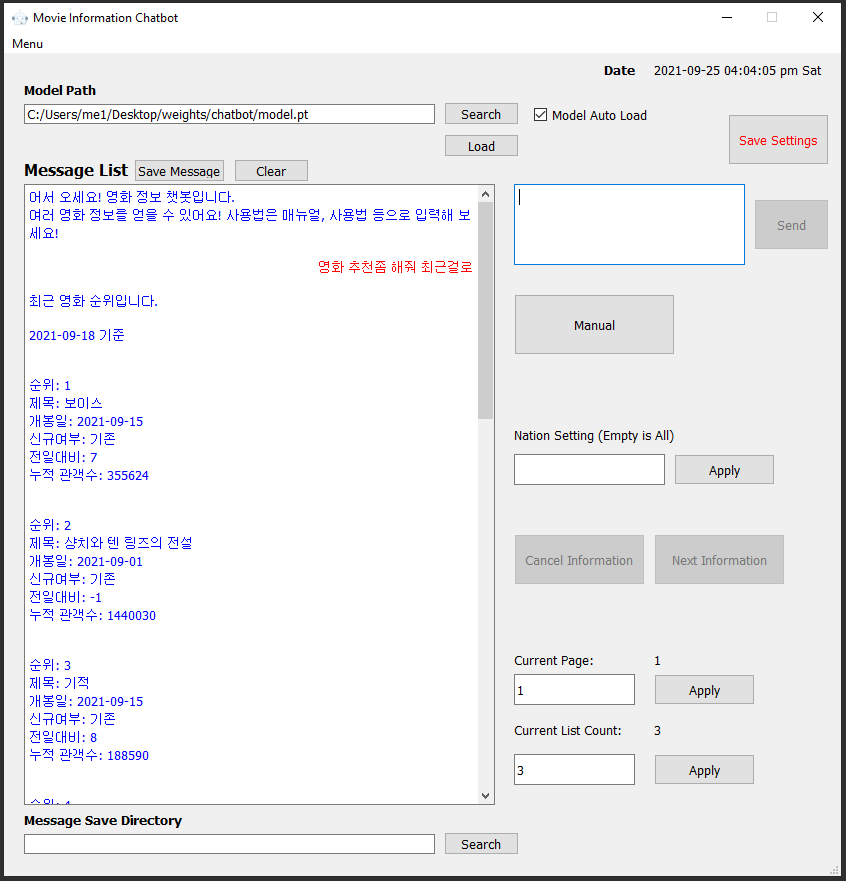
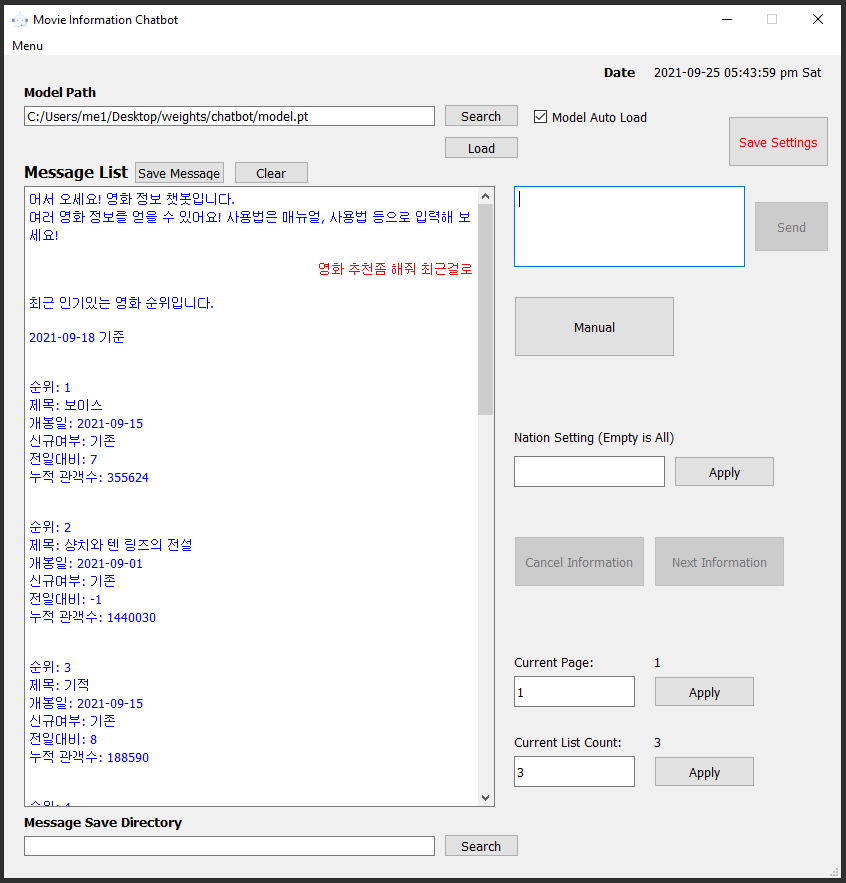
fin

diff --git a/reply.py b/reply.py
@@ -6,24 +6,24 @@ SCRIPT_LIST = {
 "hello" : ("Hello! 안녕하세요! 얻고 싶은 정보를 입력해 주세요. 사용법은 매뉴얼, 사용법 등으로 입력해 주세요.", 
 "반갑습니다. 원하시는 정보를 입력해 주세요. 사용법은 매뉴얼, 사용법 등으로 입력해 보세요."),
 
-"manual" : ("영화 제목, 배우, 감독, 순위, 연도, 국가를 이용해서 영화 정보를 얻을 수 있습니다.\nex) 배우 찾아줘, 영화 추천좀 해줘", 
-"영화 제목으로 찾을래, 인기 있는 영화좀 등을 입력해 보세요.\n영화 제목, 배우, 감독, 순위, 연도, 국가를 이용해서 영화 정보를 얻을 수 있습니다."),
+"manual" : ("영화 제목, 배우, 감독, 순위, 연도, 국가를 이용해서 영화 정보를 얻을 수 있습니다.\nex) 배우 찾아줘, 영화 추천 좀 해줘", 
+"영화 제목으로 찾을래, 인기 있는 영화 좀 등을 입력해 보세요.\n영화 제목, 배우, 감독, 순위, 연도, 국가를 이용해서 영화 정보를 얻을 수 있습니다."),
 
 "title" : ("찾고자 하는 영화 제목을 입력해 주세요.\n검색어가 포함된 제목의 영화를 볼 수 있습니다.\nex) 컨저링\n연도와 함께 검색도 가능합니다.\nex) 컨저링, 2013-2021 또는 컨저링, 2013", 
 "정보를 얻을 영화의 제목을 입력해 주세요. 영화 제목에 검색어가 포함된 영화를 볼 수 있습니다.\nex) 인질\n연도 입력도 가능합니다.\nex) 인질, 2020-2021 또는 인질, 2020"),
 
-"actor" : ("찾고자 하는 영화 배우를 입력해 주세요. 배우가 출연한 영화 제목을 얻을 수 있습니다.\nex) 하정우", 
-"배우가 출연한 영화 제목을 얻을 수 있어요! 영화 배우를 입력해 주세요.\nex) 하정우"),
+"actor" : ("찾고자 하는 영화배우를 입력해 주세요. 배우가 출연한 영화 제목을 얻을 수 있습니다.\nex) 하정우", 
+"배우가 출연한 영화 제목을 얻을 수 있어요! 영화배우를 입력해 주세요.\nex) 하정우"),
 
-"director" : ("찾고자 하는 영화 감독을 입력해 주세요. 영화 정보를 얻을 수 있습니다.\nex) 스티븐 스필버그\n연도 입력도 가능합니다.\nex) 스티븐 스필버그, 2000-2005 또는 스티븐 스필버그, 2020", 
-"감독이 맡은 영화 정보를 얻을 수 있습니다. 찾고자 하는 영화 감독을 입력해주세요.\nex) 봉준호\n연도와 함께 검색도 가능합니다.\nex) 봉준호, 2020-2021 또는 봉준호, 2020"),
+"director" : ("찾고자 하는 영화감독을 입력해 주세요. 영화 정보를 얻을 수 있습니다.\nex) 스티븐 스필버그\n연도 입력도 가능합니다.\nex) 스티븐 스필버그, 2000-2005 또는 스티븐 스필버그, 2020", 
+"감독이 맡은 영화 정보를 얻을 수 있습니다. 찾고자 하는 영화감독을 입력해주세요.\nex) 봉준호\n연도와 함께 검색도 가능합니다.\nex) 봉준호, 2020-2021 또는 봉준호, 2020"),
 
-"rank" : (f"최근 영화 순위입니다.", "최근 인기있는 영화 순위입니다."),
+"rank" : (f"최근 영화 순위입니다.", "최근 인기 있는 영화 순위입니다."),
 
 "year" : ("연도별 개봉한 영화 정보를 얻을 수 있어요. 연도를 입력해 주세요.\nex) 2021 or 2020-2021", 
 "특정 연도에 개봉한 영화 정보를 얻을 수 있어요. 연도를 입력해 주세요.\nex) 2021 or 2020-2021"),
 
-"country" : ("국가별 영화 정보를 조회할 수 있습니다. 국가를 입력해 주세요.\nex) 한국\n연도 입력도 가능합니다.\nex) 한국, 2004-2005 또는 한국,2020", 
+"country" : ("국가별 영화 정보를 조회할 수 있습니다. 국가를 입력해 주세요.\nex) 한국\n연도 입력도 가능합니다.\nex) 한국, 2004-2005 또는 한국, 2020", 
 "국가를 입력해 주세요. 해당 국가의 영화 정보를 얻을 수 있습니다.\nex) 미국, 2010-2013 또는 미국, 2018"),
 
 "welcome" : ("어서 오세요. 영화 정보 챗봇입니다.\n사용법은 매뉴얼, 사용법 등으로 입력해 보세요!", 
@@ -36,18 +36,18 @@ SCRIPT_LIST = {
 
 "none" : ("죄송합니다. 찾으시는 정보가 없어요.\n입력 형식이 잘못되었거나 데이터가 존재하지 않아요.",
 "죄송해요. 정보를 찾을 수 없어요.\n데이터가 존재하지 않거나 입력 형식을 확인해 주세요.",
-"정보가 존재하지 않아요. 입력 형식을 다시 한 번 확인해 주시겠어요?",
+"정보가 존재하지 않아요. 입력 형식을 다시 한번 확인해 주시겠어요?",
 "찾으시는 정보가 없어요. 입력 형식 확인을 해주세요."),
 
 "next" : ("다음 정보를 계속 보시겠어요? (ㅇ 또는 y)", 
 "검색 된 다음 정보를 계속 보시겠어요? (ㅇ 또는 y)", 
-"다음 정보가 존재하면 계속 확인하실 수 있어요. 계속 하시겠어요? (ㅇ 또는 y)"),
+"다음 정보가 존재하면 계속 확인하실 수 있어요. 계속하시겠어요? (ㅇ 또는 y)"),
 
-"rank_next" : ("특정 날짜의 순위도 보실 수 있어요!\nex)20201210\n한국, 외국 지정도 가능합니다.\nex)20170515, 한국\n(취소하시려면 ㄴ 또는 n)", 
-"날짜를 지정해 순위를 볼 수 있어요!\nex)20170511\n한국, 외국 지정도 가능해요.\nex)20160813, 외국\n(취소하시려면 ㄴ 또는 n)"),
+"rank_next" : ("특정 날짜의 순위도 보실 수 있어요!\nex)20201210\n한국, 외국 지정도 가능합니다.\nex)20170515, 한국\n취소하시겠어요? (ㄴ 또는 n)", 
+"날짜를 지정해 순위를 볼 수 있어요!\nex)20170511\n한국, 외국 지정도 가능해요.\nex)20160813, 외국\n취소하시겠어요? (ㄴ 또는 n)"),
 
 "end" : ("검색 결과가 존재하지 않아요.\n다른 정보가 더 필요하시면 얻고 싶은 정보를 입력해 주세요.", 
 "더 이상 결과가 존재하지 않아요.\n필요하신 다른 정보를 입력해 주세요~"),
 
-"cancel" : ("취소 되었어요. 얻고 싶은 정보를 입력해 주세요~", "취소 되었습니다. 원하시는 정보를 입력해 주세요.")
+"cancel" : ("취소 되었어요. 얻고 싶은 정보를 입력해 주세요~", "취소되었습니다. 원하시는 정보를 입력해 주세요.")
 }

diff --git a/chatbot_ui.py b/chatbot_ui.py
@@ -285,10 +285,10 @@ class Ui_MainWindow(object):
         self.messageListBox.setAlignment(QtCore.Qt.AlignRight)
         self.messageListBox.insertPlainText(text)
         self.messageListBox.append("\n")
+        self.messageListBox.moveCursor(QtGui.QTextCursor.End)
 
         self.sendMessageButton.setDisabled(True)
         self.sendMessageBox.setFocus()
-        self.messageListBox.moveCursor(QtGui.QTextCursor.End)
 
         if self.check_get_info == False:
             self.prediction_chatbot_message(text)
@@ -337,12 +337,13 @@ class Ui_MainWindow(object):
 
 
     # 챗봇 메시지
-    def reply_chatbot_message(self, text):
+    def reply_chatbot_message(self, text: str):
         self.messageListBox.setTextColor(QtGui.QColor(0, 0, 255))
         self.messageListBox.setAlignment(QtCore.Qt.AlignLeft)
         self.messageListBox.insertPlainText(text)
         self.messageListBox.append("\n")
         self.messageListBox.moveCursor(QtGui.QTextCursor.End)
+
 
     # 사용자 메시지 예측
     def prediction_chatbot_message(self, text):
